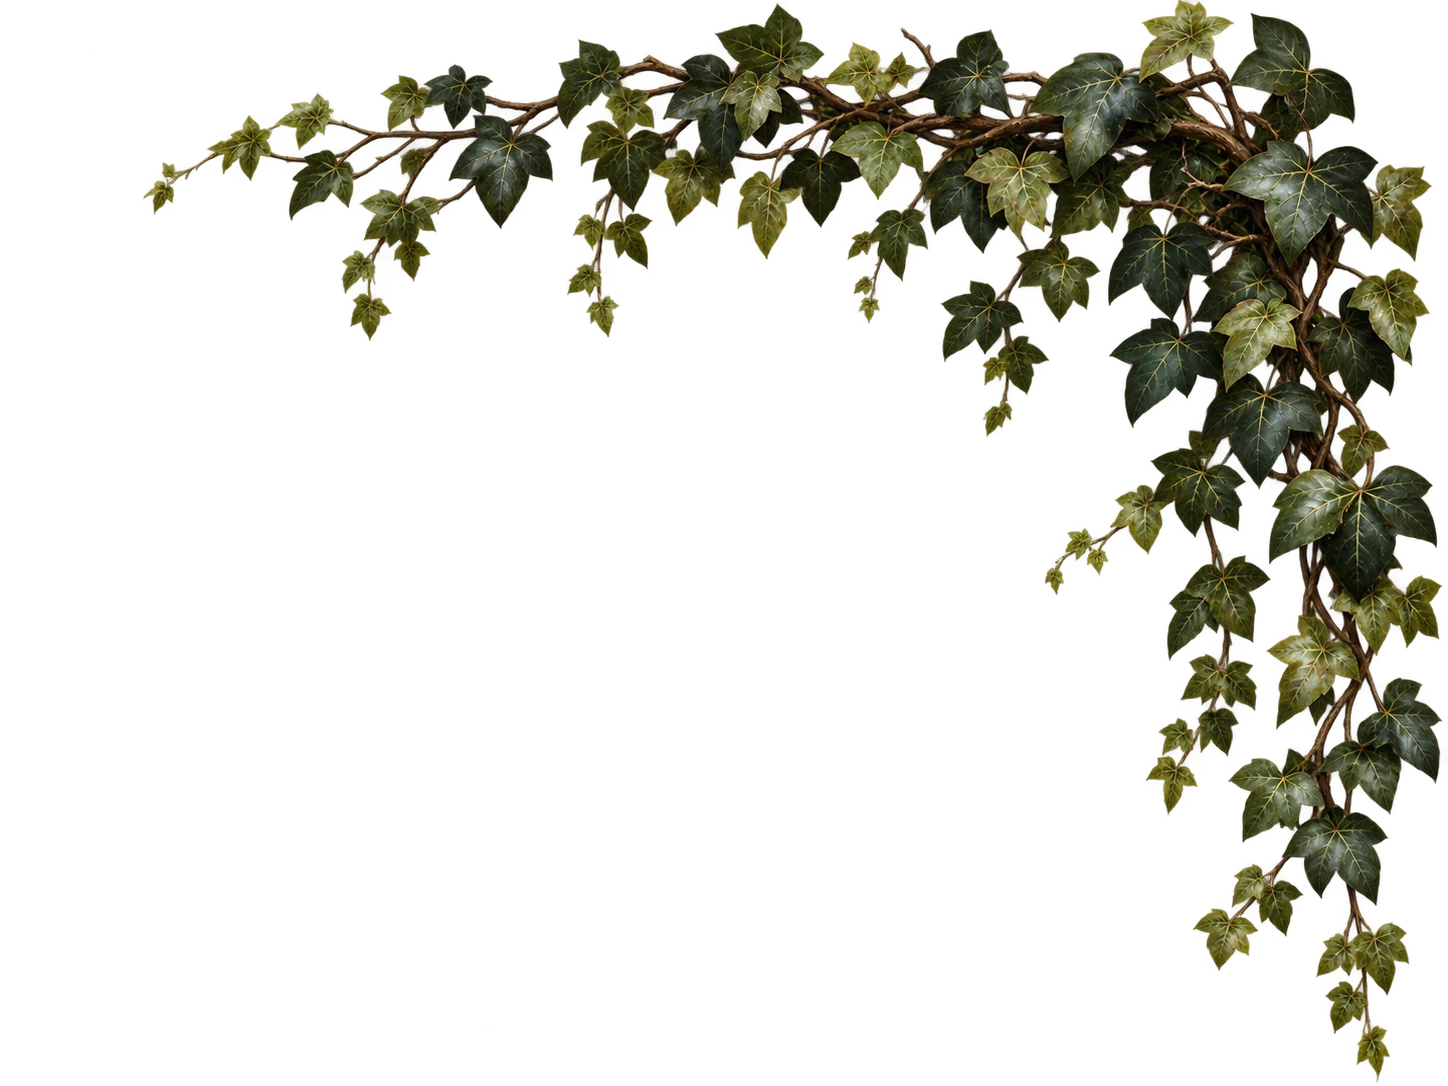
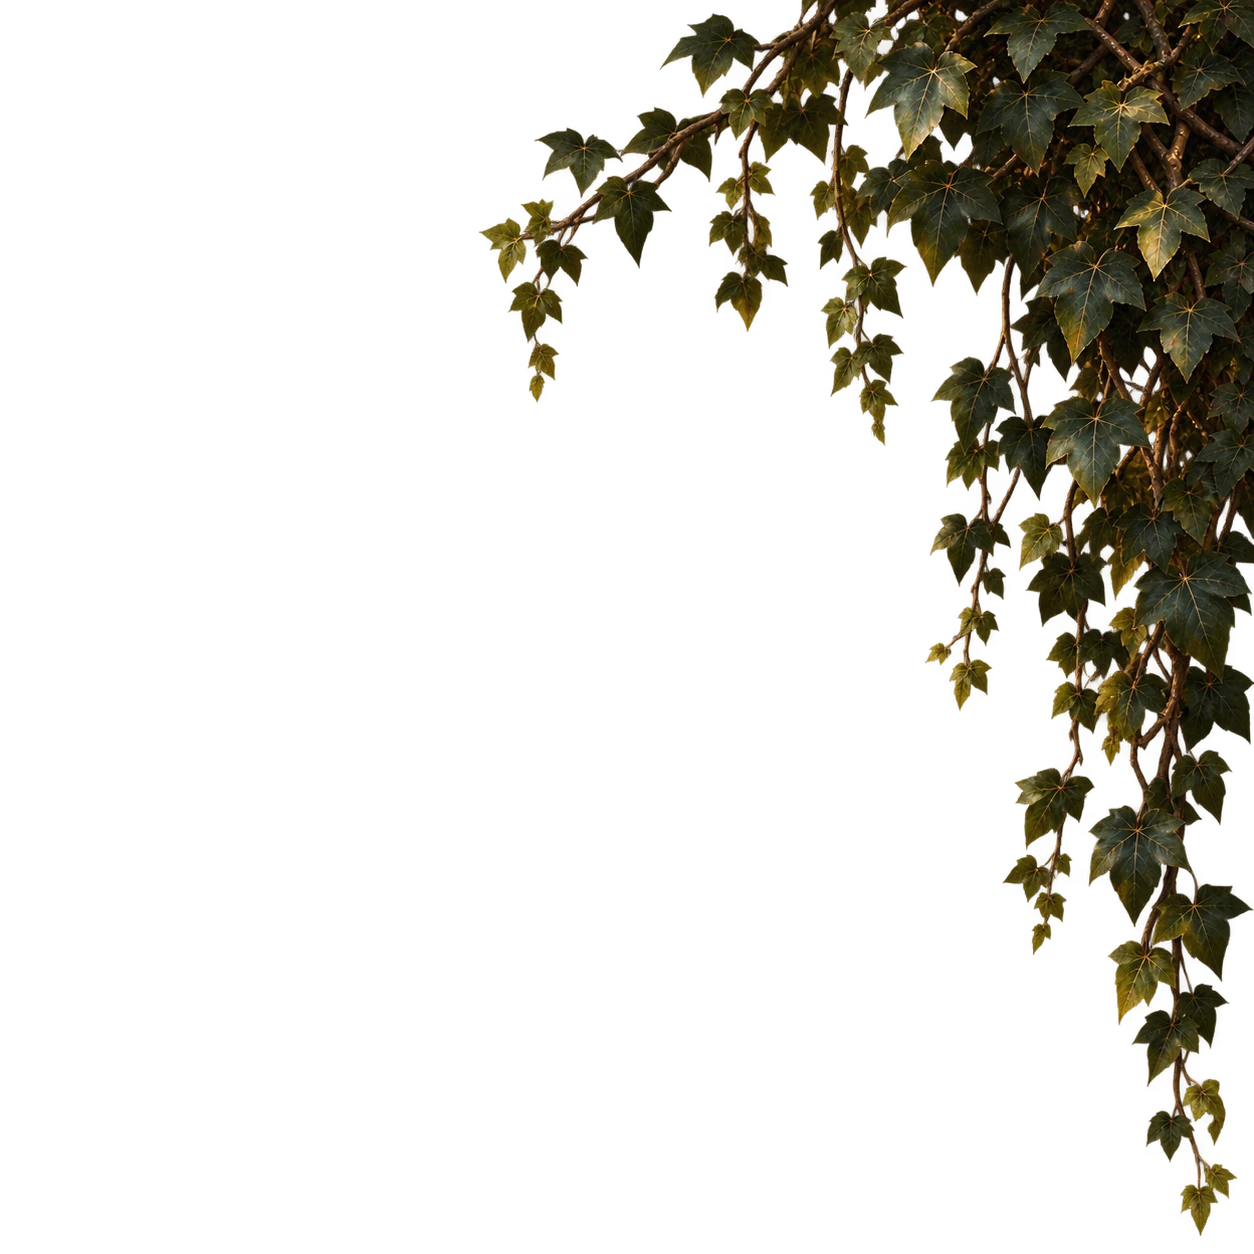
Nya murgrönekvistar i övre hörnen

Changed region(s): [[0.0933, 0.0, 1.0, 1.0]]

diff --git a/assets/css/home.css b/assets/css/home.css
@@ -79,11 +79,11 @@ h1, h2, h3 { font-weight: 500; margin: 0; }
 /* Murgröna i övre hörnen – ligger över header och hero */
 .ivy--top-left, .ivy--top-right {
   top: -8px;
-  z-index: 30;
+  z-index: 15; /* under headerns text/ikoner (20) men över hero-bilden */
   filter: drop-shadow(2px 4px 4px rgba(0,0,0,.2));
 }
-.ivy--top-left  { left: -14px;  width: clamp(150px, 19vw, 300px); }
-.ivy--top-right { right: -14px; width: clamp(150px, 19vw, 300px); }
+.ivy--top-left  { left: -14px;  width: clamp(180px, 20vw, 300px); }
+.ivy--top-right { right: -14px; width: clamp(150px, 16vw, 250px); } /* smalare så ikonerna syns */
 
 /* ---------- Header ---------- */
 .site-header {
@@ -92,8 +92,8 @@ h1, h2, h3 { font-weight: 500; margin: 0; }
   display: flex;
   align-items: center;
   gap: 2rem;
-  padding: 14px clamp(80px, 10vw, 150px) 12px clamp(100px, 13vw, 190px); /* plats för murgrönan i båda hörnen */
-  background: var(--paper);
+  padding: 14px clamp(100px, 13vw, 190px) 12px clamp(100px, 13vw, 190px); /* plats för murgrönan i båda hörnen */
+  background: transparent; /* samma papper syns genom från body, så murgrönan kan ligga bakom */
   border-bottom: 1px solid rgba(0,0,0,.06);
 }
 .logo { text-decoration: none; display: flex; flex-direction: column; line-height: 1; white-space: nowrap; }
